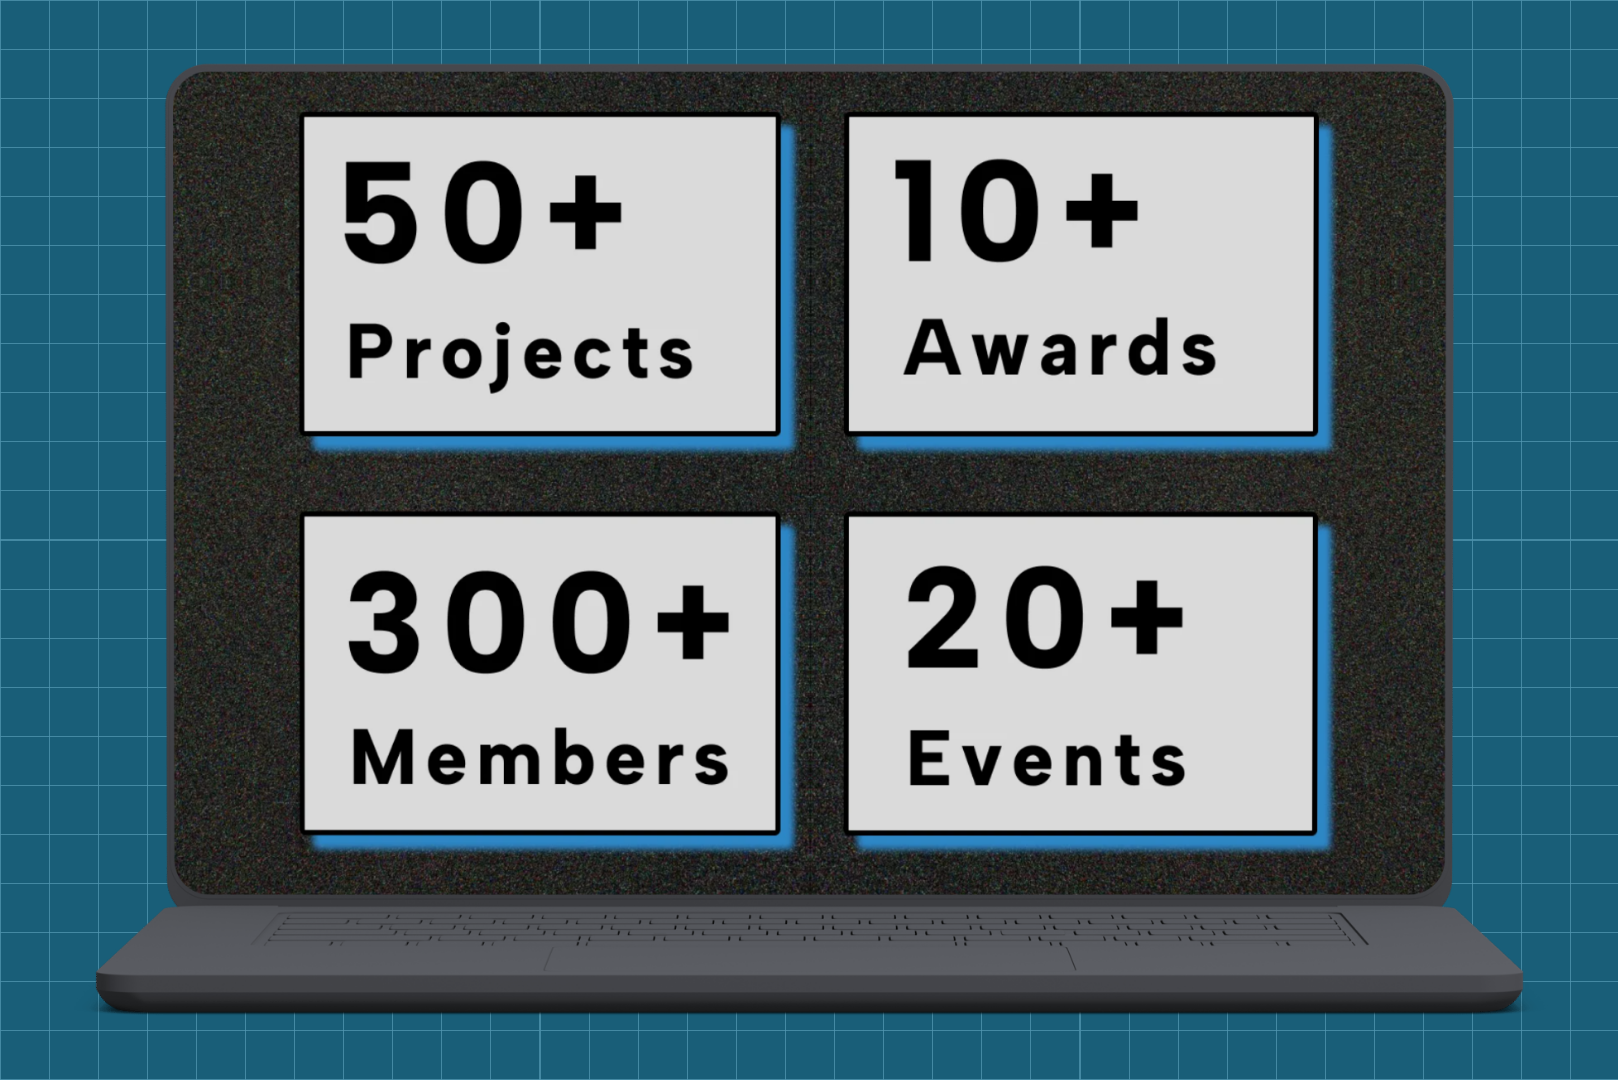
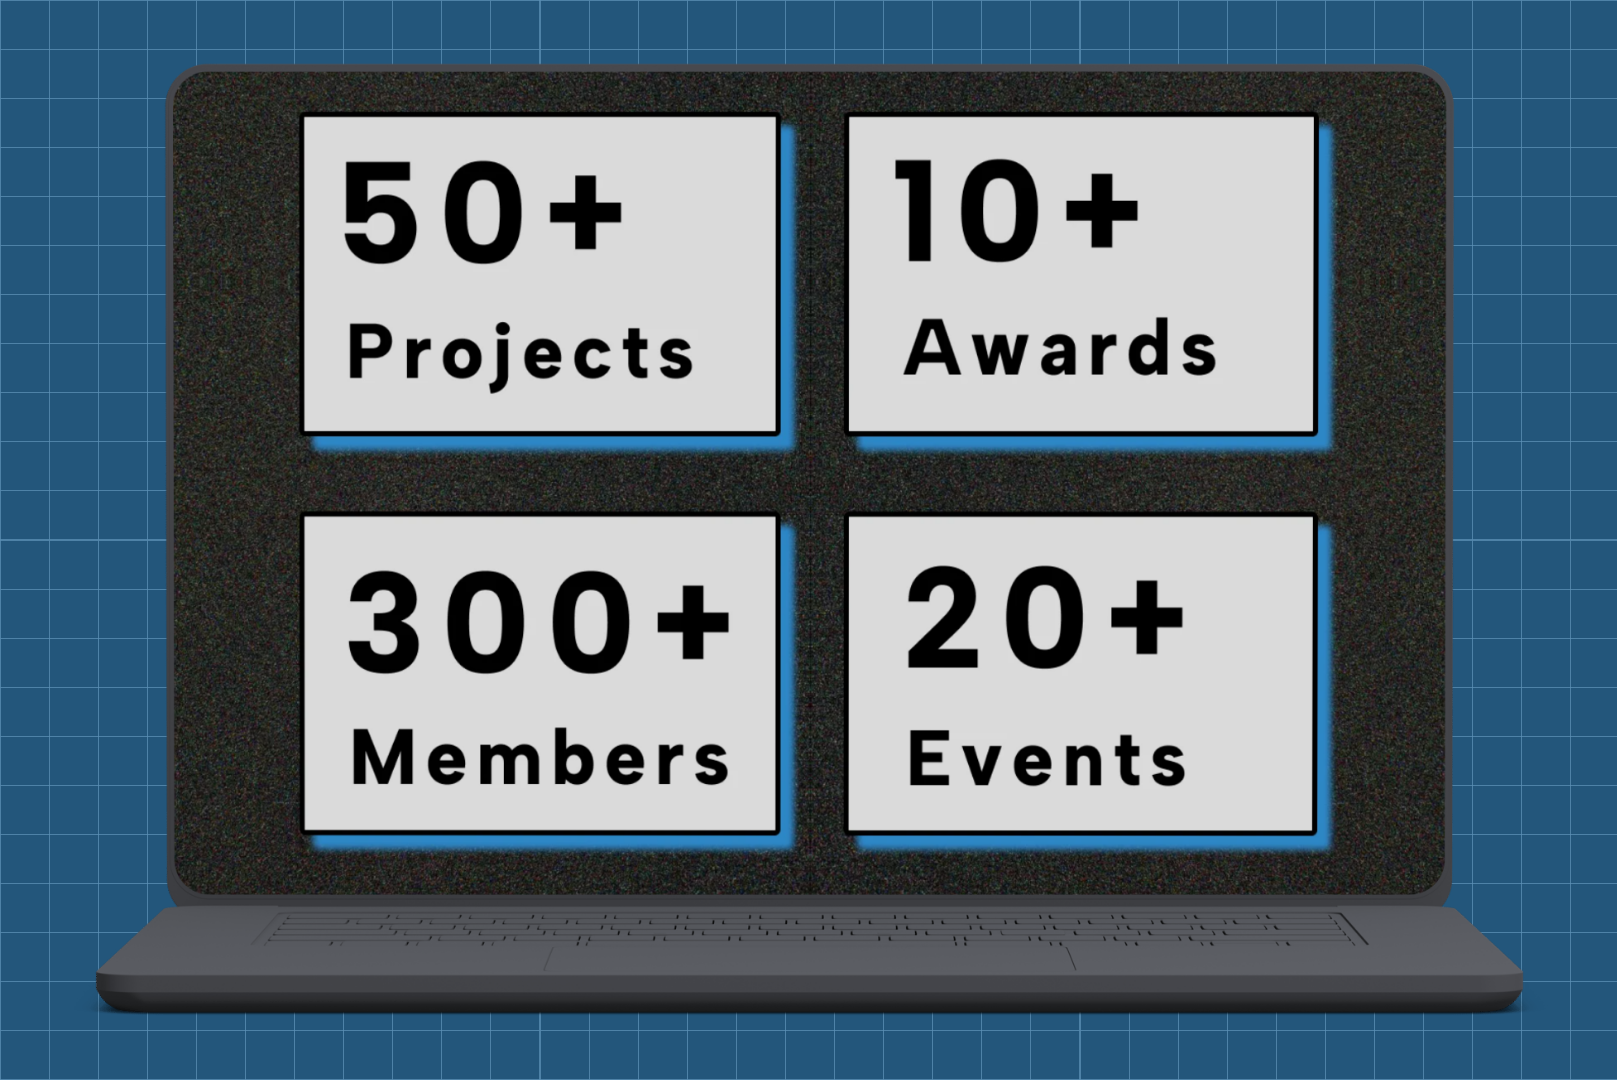
Fixed the colors, font and some content of the slideshow section.

Changed region(s): [[0.5566, 0.3056, 0.7421, 0.3361], [0.6494, 0.7028, 0.6803, 0.7333]]

diff --git a/portfolio.html b/portfolio.html
@@ -673,7 +673,7 @@
     }
 
     .deck-category {
-      font-family: 'Space Mono', monospace;
+      font-family: 'Courier Prime', monospace;
       font-size: 10px;
       letter-spacing: 3px;
       text-transform: uppercase;
@@ -710,7 +710,7 @@
     }
 
     .deck-tag {
-      font-family: 'Space Mono', monospace;
+      font-family: 'Courier Prime', monospace;
       font-size: 9px;
       letter-spacing: 1px;
       text-transform: uppercase;
@@ -1746,9 +1746,10 @@
             <div class="deck-desc">The MSA Association SRM needed a mobile onboarding experience that matched the warmth of the community. The desktop site lacked micro-interactions and emotional depth — using Lottie files and layered GIFs, the redesign made every step feel alive and intentional.</div>
             <div class="deck-tags">
               <span class="deck-tag filled" style="background:#3366cc;">Figma</span>
-              <span class="deck-tag filled" style="background:#1e3a6e;">Mobile UX</span>
               <span class="deck-tag">Lottie Animation</span>
-              <span class="deck-tag">Onboarding Flow</span>
+              <div style="flex-basis: 100%;"></div>
+              <span class="deck-tag">Gradient Animations</span>
+              <span class="deck-tag">3D Visuals</span>
             </div>
           </div>
         </div>
@@ -1767,10 +1768,8 @@
             <div class="deck-divider" style="background:#a00000;"></div>
             <div class="deck-desc">Dry event listings transformed into immersive editorial journeys. The redesign lets members explore upcoming events and browse past sessions through vivid posters, richly colored stills, and layered details that feel like a magazine — not a calendar.</div>
             <div class="deck-tags">
-              <span class="deck-tag filled" style="background:#a00000;">Canva</span>
-              <span class="deck-tag filled" style="background:#6a0000;">Event Design</span>
-              <span class="deck-tag">Web Redesign</span>
-              <span class="deck-tag">Editorial</span>
+              <span class="deck-tag filled" style="background:#a00000;">Figma</span>
+              <span class="deck-tag">Netflix Inspired</span>
             </div>
           </div>
         </div>
@@ -1780,19 +1779,17 @@
           <div class="deck-visual">
             <!-- Replace src with your Prada landing page design screenshot -->
             <img class="deck-design-img" src="Tradzo Design.png" alt="Prada Landing Page Redesign" />
-            <div class="deck-accent-line" style="background: linear-gradient(90deg, #c9a84c, #f5f0e8);"></div>
+            <div class="deck-accent-line" style="background: linear-gradient(90deg, #3fcf1a, #f5f0e8);"></div>
           </div>
           <div class="deck-info">
             <div class="deck-index">03</div>
-            <div class="deck-category" style="color:#c9a84c;">Luxury Brand · Landing Page</div>
+            <div class="deck-category" style="color:#3fcf1a;">Luxury Brand · Landing Page</div>
             <div class="deck-title">Prada: Landing<br/>Page Redesign</div>
-            <div class="deck-divider" style="background:#c9a84c;"></div>
+            <div class="deck-divider" style="background:#3fcf1a;"></div>
             <div class="deck-desc">A consulting business inspired by the iconic fashion house. The design maps strategy and data against a luxury editorial aesthetic — professional credibility wrapped in the visual language of high fashion. Logic and elegance, coexisting.</div>
             <div class="deck-tags">
-              <span class="deck-tag filled" style="background:#c9a84c; color:#000;">Figma</span>
-              <span class="deck-tag filled" style="background:#8a6f20; color:#fff;">Landing Page</span>
+              <span class="deck-tag filled" style="background:#3fcf1a; color:#000;">Figma</span>
               <span class="deck-tag">Brand Strategy</span>
-              <span class="deck-tag">Editorial Layout</span>
             </div>
           </div>
         </div>
@@ -1802,17 +1799,16 @@
           <div class="deck-visual">
             <!-- Replace src with your Suzanne Collins author website design screenshot -->
             <img class="deck-design-img" src="Author Design.png" alt="Suzanne Collins Author Website Redesign" />
-            <div class="deck-accent-line" style="background: linear-gradient(90deg, #c9a84c, #fff3c0);"></div>
+            <div class="deck-accent-line" style="background: linear-gradient(90deg, #7dcbfb, hsl(49, 16%, 87%));"></div>
           </div>
           <div class="deck-info">
             <div class="deck-index">04</div>
-            <div class="deck-category" style="color:#c9a84c;">Author · Website Redesign</div>
+            <div class="deck-category" style="color:#6793c8;">Author · Website Redesign</div>
             <div class="deck-title">Suzanne Collins —<br/>Author Website</div>
-            <div class="deck-divider" style="background:#c9a84c;"></div>
+            <div class="deck-divider" style="background:#6793c8;"></div>
             <div class="deck-desc">The original site lacked emotional depth for such a celebrated author. The redesign overhauled the experience with clear structure, cohesive sections, and fan artwork collages — creating a site worthy of the worlds Collins built.</div>
             <div class="deck-tags">
-              <span class="deck-tag filled" style="background:#c9a84c; color:#000;">Figma</span>
-              <span class="deck-tag filled" style="background:#5a4a10; color:#fff;">Web Redesign</span>
+              <span class="deck-tag filled" style="background:#6793c8; color:#000;">Figma</span>
               <span class="deck-tag">Author Branding</span>
               <span class="deck-tag">Visual Storytelling</span>
             </div>
@@ -1824,17 +1820,16 @@
           <div class="deck-visual">
             <!-- Replace src with your CodeNex website redesign screenshot -->
             <img class="deck-design-img" src="CodeNex Design.png" alt="CodeNex Website Redesign" />
-            <div class="deck-accent-line" style="background: linear-gradient(90deg, #4af0b0, #00c8a0);"></div>
+            <div class="deck-accent-line" style="background: linear-gradient(90deg, #2c87c4, #fafafa);"></div>
           </div>
           <div class="deck-info">
             <div class="deck-index">05</div>
-            <div class="deck-category" style="color:#4af0b0;">Tech Club · Website Redesign</div>
+            <div class="deck-category" style="color:#2c87c4;">Tech Club · Website Redesign</div>
             <div class="deck-title">CodeNex —<br/>Website Redesign</div>
-            <div class="deck-divider" style="background:#4af0b0;"></div>
+            <div class="deck-divider" style="background:#2c87c4;"></div>
             <div class="deck-desc">A bold restructure of a college tech club's digital presence. Clean hierarchy, striking stats front-and-center, and a visual identity that reflects the club's forward-thinking spirit — professional without losing the community energy.</div>
             <div class="deck-tags">
-              <span class="deck-tag filled" style="background:#4af0b0; color:#000;">Canva</span>
-              <span class="deck-tag filled" style="background:#0a5a3a; color:#4af0b0;">Web Design</span>
+              <span class="deck-tag filled" style="background:#2c87c4; color:#000;">Canva</span>
               <span class="deck-tag">Club Branding</span>
               <span class="deck-tag">Visual Identity</span>
             </div>
@@ -1846,18 +1841,17 @@
           <div class="deck-visual">
             <!-- Replace src with your Nocturne journal app design screenshot -->
             <img class="deck-design-img" src="Nocturne Design.png" alt="Nocturne Personal Journal App Design" />
-            <div class="deck-accent-line" style="background: linear-gradient(90deg, #8a4a9a, #c9a0dc);"></div>
+            <div class="deck-accent-line" style="background: linear-gradient(90deg, #e2d67f, #ffffff);"></div>
           </div>
           <div class="deck-info">
             <div class="deck-index">06</div>
-            <div class="deck-category" style="color:#c9a0dc;">Personal App · Journal Design</div>
+            <div class="deck-category" style="color:#e2d67f;">Personal App · Journal Design</div>
             <div class="deck-title">Nocturne —<br/>Personal Project</div>
-            <div class="deck-divider" style="background:#8a4a9a;"></div>
+            <div class="deck-divider" style="background:#e2d67f;"></div>
             <div class="deck-desc">A personal journaling app concept built entirely from introspection. Structured prompts, layered layouts, and a deep-night visual language encourage reflection. Nocturne is as much a design experiment as it is a product — building from curiosity outward.</div>
             <div class="deck-tags">
-              <span class="deck-tag filled" style="background:#8a4a9a;">Figma</span>
-              <span class="deck-tag filled" style="background:#4a1a5a;">App Design</span>
-              <span class="deck-tag">UX Concept</span>
+              <span class="deck-tag filled" style="background:#d7c74a;">Figma</span>
+              <span class="deck-tag">App Design</span>
               <span class="deck-tag">Personal Project</span>
             </div>
           </div>
